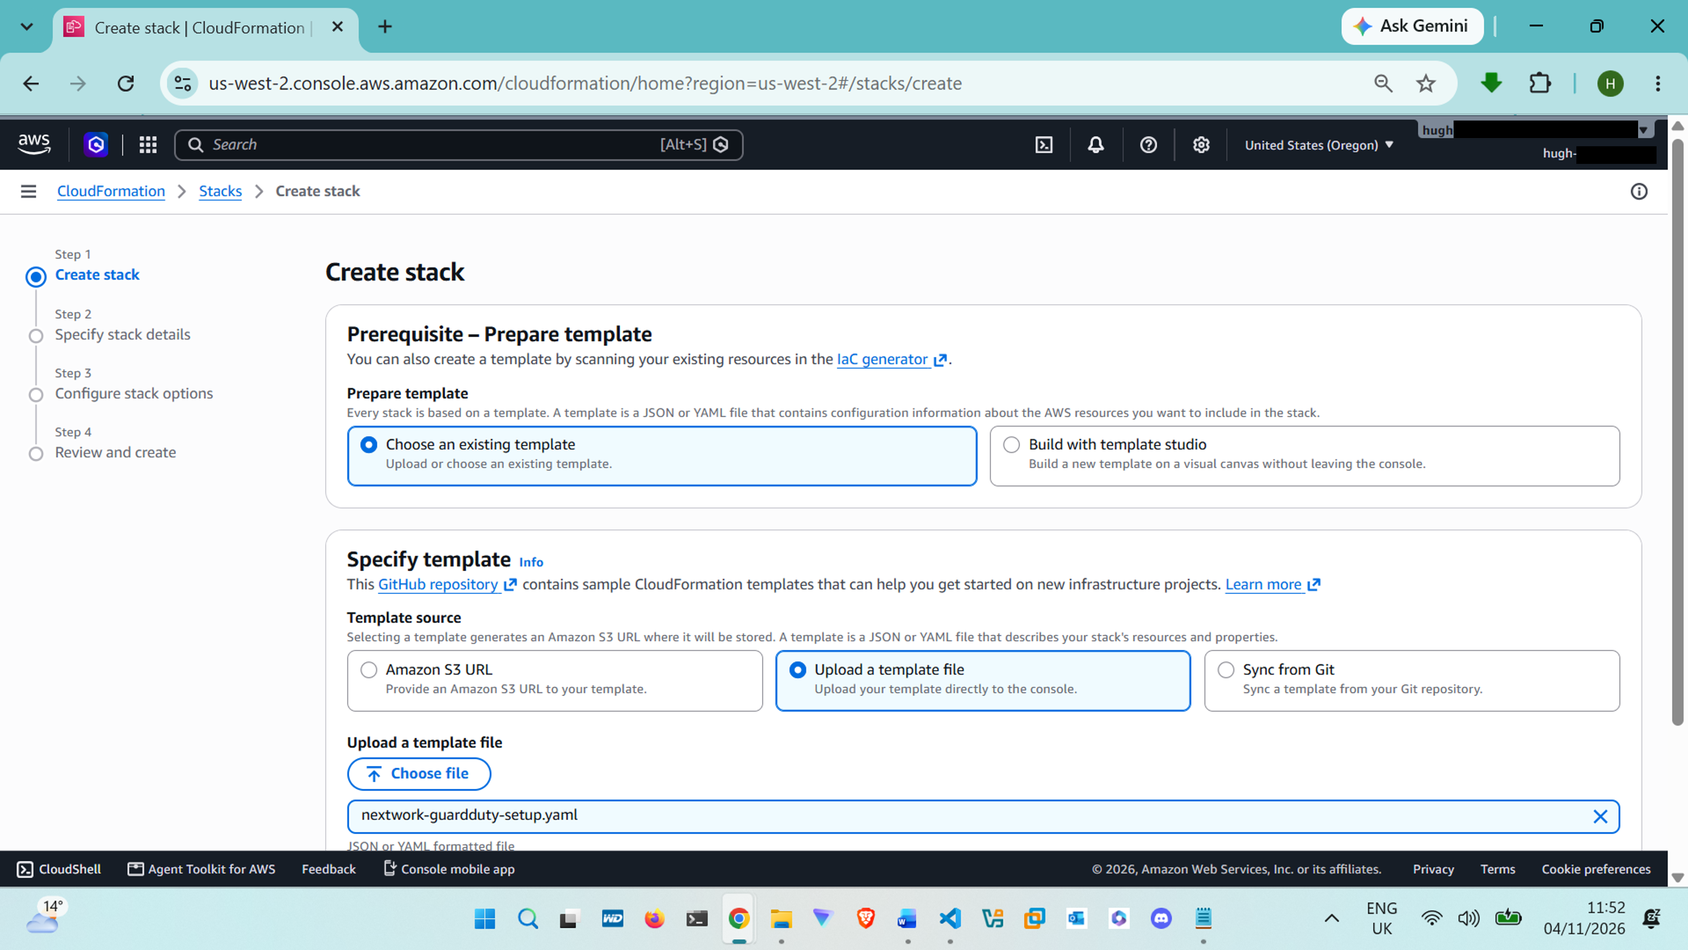
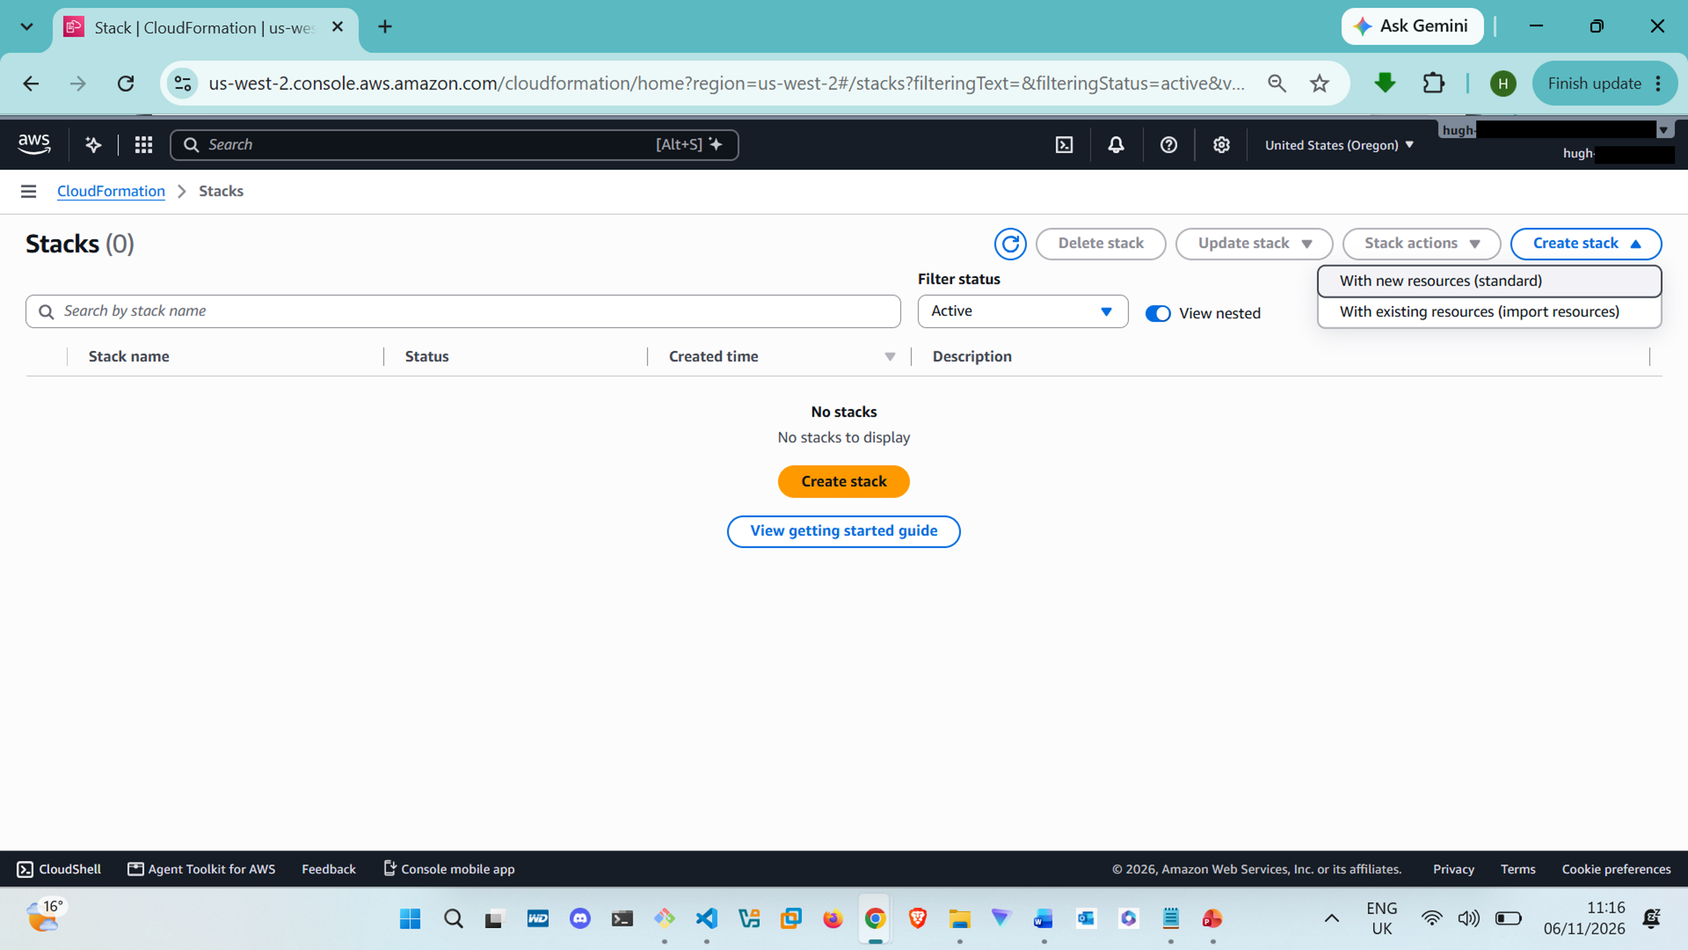
docs: add lab 02 GuardDuty threat detection walkthrough with 31 validation screenshots

diff --git a/02-guardduty-threat-detection/docs/evidence.md b/02-guardduty-threat-detection/docs/evidence.md
@@ -1,67 +1,62 @@
 # Evidence Index
 
-What each screenshot in [`../screenshots/`](../screenshots) proves. Filenames below are what the README and incident report link to — rename your files to match, or do a find-and-replace across all three files if you'd rather keep your own names.
-
-If you don't have a screenshot for a row, delete the row (and remove the matching placeholder from the README/incident report) rather than leaving a broken image link.
-
 ## CloudFormation deployment
 
 | # | Screenshot | What it proves |
-|---|---|---|
-| 1 | `01-stack-create-start.png` | Starting a new stack with "With new resources (standard)" |
-| 2 | `02-template-upload.png` | The `nextwork-guardduty-setup.yaml` template uploaded |
-| 3 | `03-stack-name-details.png` | Stack named, template details confirmed |
-| 4 | `04-stack-failure-options.png` | Stack failure options configured (rollback behavior) |
-| 5 | `05-stack-review-iam-ack.png` | Review page, IAM resource acknowledgement checked |
-| 6 | `06-stack-rollback-complete-error.png` | **Troubleshooting:** first deployment in `ROLLBACK_COMPLETE`, proving the region-mapping and stuck-bucket issues really happened |
-| 7 | `07-asg-activity-tab-error.png` | **Troubleshooting:** Auto Scaling Group Activity tab showing the real signal-timeout error, found after disabling rollback |
-| 8 | `08-stack-delete-retain-bucket.png` | **Troubleshooting:** deleting the failed stack with `TheSecureBucket` set to Retain |
-| 9 | `09-stack-create-complete.png` | Final successful deployment, status `CREATE_COMPLETE` |
-| 10 | `10-outputs-tab.png` | Outputs tab showing `JuiceShopURL`, `TheSecureBucket`, and other output values used throughout the attack |
+|---|------------|----------------|
+| 1 | [`01-stack-create-start.png`](../screenshots/01-stack-create-start.png) | Starting a new stack with "With new resources (standard)" |
+| 2 | [`02-template-upload.png`](../screenshots/02-template-upload.png) | The `nextwork-guardduty-setup.yaml` template uploaded |
+| 3 | [`03-stack-name-details.png`](../screenshots/03-stack-name-details.png) | Stack named, template details confirmed |
+| 4 | [`04-stack-failure-options.png`](../screenshots/04-stack-failure-options.png) | Stack failure options configured (rollback behavior) |
+| 5 | [`05-stack-review-iam-ack.png`](../screenshots/05-stack-review-iam-ack.png) | Review page, IAM resource acknowledgement checked |
+| 6 | [`06-osaka-region-mapping-error.png`](../screenshots/06-osaka-region-mapping-error.png) | **Troubleshooting:** Osaka deployment failing at template validation with the CloudFront prefix list mapping error, before any resources were created |
+| 7 | [`07-stack-rollback-failed-error.png`](../screenshots/07-stack-rollback-failed-error.png) | **Troubleshooting:** Oregon deployment stuck in `ROLLBACK_FAILED` after the Auto Scaling Group signal timeout |
+| 8 | [`08-stack-delete-retain-bucket.png`](../screenshots/08-stack-delete-retain-bucket.png) | **Troubleshooting:** deleting the failed stack with `TheSecureBucket` set to Retain |
+| 9 | [`09-stack-create-complete.png`](../screenshots/09-stack-create-complete.png) | Final successful deployment in Oregon, status `CREATE_COMPLETE` |
+| 10 | [`10-outputs-tab.png`](../screenshots/10-outputs-tab.png) | Outputs tab showing `JuiceShopURL`, `TheSecureBucket`, and other output values used throughout the attack |
 
 ## Accessing the app and the attack
 
 | # | Screenshot | What it proves |
-|---|---|---|
-| 11 | `11-juiceshop-landing-page.png` | Juice Shop reachable at the CloudFront URL |
-| 12 | `12-sql-injection-login-field.png` | `' or 1=1;--` entered in the login email field, before submitting |
-| 13 | `13-sql-injection-success-banner.png` | "Successfully solved a challenge: Login Admin" banner — authentication bypass confirmed |
-| 14 | `14-admin-profile-page.png` | Admin profile page reached after the bypass |
-| 15 | `15-command-injection-payload.png` | JavaScript payload pasted into the Username field |
-| 16 | `16-command-injection-object-object.png` | Username now reads `[object Object]`, confirming the payload executed |
-| 17 | `17-stolen-credentials-json.png` | Browser showing the exposed `credentials.json` contents (temporary credentials, safe since expired and deleted) |
+|---|------------|----------------|
+| 11 | [`11-juiceshop-landing-page.png`](../screenshots/11-juiceshop-landing-page.png) | Juice Shop reachable at the CloudFront URL |
+| 12 | [`12-sql-injection-login-field.png`](../screenshots/12-sql-injection-login-field.png) | `' or 1=1;--` entered in the login email field, before submitting |
+| 13 | [`13-sql-injection-success-banner.png`](../screenshots/13-sql-injection-success-banner.png) | "Successfully solved a challenge: Login Admin" banner — authentication bypass confirmed |
+| 14 | [`14-admin-profile-page.png`](../screenshots/14-admin-profile-page.png) | Admin profile page reached after the bypass |
+| 15 | [`15-command-injection-object-object.png`](../screenshots/15-command-injection-object-object.png) | Username now reads `[object Object]`, confirming the payload executed |
+| 16 | [`16-stolen-credentials-json.png`](../screenshots/16-stolen-credentials-json.png) | Browser showing the exposed `credentials.json` contents (temporary credentials, safe since expired and deleted) |
 
 ## CloudShell exfiltration
 
 | # | Screenshot | What it proves |
-|---|---|---|
-| 18 | `18-cloudshell-first-open.png` | CloudShell terminal opened and ready |
-| 19 | `19-cloudshell-env-vars.png` | `JUICESHOPURL` and `JUICESHOPS3BUCKET` environment variables set |
-| 20 | `20-cloudshell-wget-credentials.png` | `wget` downloading `credentials.json` into CloudShell |
-| 21 | `21-cloudshell-cat-jq-credentials.png` | `cat credentials.json \| jq` output, formatted credentials |
-| 22 | `22-cloudshell-aws-configure-profile.png` | `aws configure set profile.stolen...` commands building the CLI profile |
-| 23 | `23-cloudshell-s3-cp-secret-file.png` | `aws s3 cp ... --profile stolen` copying the secret file using stolen credentials |
-| 24 | `24-cloudshell-secret-file-contents.png` | `cat secret-information.txt` showing the leaked message — data theft confirmed |
+|---|------------|----------------|
+| 17 | [`17-cloudshell-first-open.png`](../screenshots/17-cloudshell-first-open.png) | CloudShell terminal opened and ready |
+| 18 | [`18-cloudshell-env-vars.png`](../screenshots/18-cloudshell-env-vars.png) | `JUICESHOPURL` and `JUICESHOPS3BUCKET` environment variables set |
+| 19 | [`19-cloudshell-wget-credentials.png`](../screenshots/19-cloudshell-wget-credentials.png) | `wget` downloading `credentials.json` into CloudShell |
+| 20 | [`20-cloudshell-cat-jq-credentials.png`](../screenshots/20-cloudshell-cat-jq-credentials.png) | `cat credentials.json \| jq` output, formatted credentials |
+| 21 | [`21-cloudshell-aws-configure-profile.png`](../screenshots/21-cloudshell-aws-configure-profile.png) | `aws configure set profile.stolen...` commands building the CLI profile |
+| 22 | [`22-cloudshell-s3-cp-secret-file.png`](../screenshots/22-cloudshell-s3-cp-secret-file.png) | `aws s3 cp ... --profile stolen` copying the secret file using stolen credentials |
+| 23 | [`23-cloudshell-secret-file-contents.png`](../screenshots/23-cloudshell-secret-file-contents.png) | `cat secret-information.txt` showing the leaked message — data theft confirmed |
 
 ## GuardDuty detection
 
 | # | Screenshot | What it proves |
-|---|---|---|
-| 25 | `25-guardduty-findings-list.png` | GuardDuty findings list, showing the High-severity finding |
-| 26 | `26-guardduty-finding-detail.png` | Finding detail page: `UnauthorizedAccess:IAMUser/InstanceCredentialExfiltration.InsideAWS`, resource, action, and actor fields |
+|---|------------|----------------|
+| 24 | [`24-guardduty-findings-list.png`](../screenshots/24-guardduty-findings-list.png) | GuardDuty findings list, showing the High-severity finding |
+| 25 | [`25-guardduty-finding-detail.png`](../screenshots/25-guardduty-finding-detail.png) | Finding detail page: `UnauthorizedAccess:IAMUser/InstanceCredentialExfiltration.InsideAWS`, resource, action, and actor fields |
 
 ## Malware Protection extension
 
 | # | Screenshot | What it proves |
-|---|---|---|
-| 27 | `27-malware-protection-enabled.png` | "Successfully enabled Malware Protection for S3" banner |
-| 28 | `28-eicar-file-upload.png` | EICAR test file uploaded to the bucket |
-| 29 | `29-eicar-finding.png` | Resulting `Object:S3/MaliciousFile` GuardDuty finding |
+|---|------------|----------------|
+| 26 | [`26-malware-protection-enabled.png`](../screenshots/26-malware-protection-enabled.png) | "Successfully enabled Malware Protection for S3" banner |
+| 27 | [`27-eicar-file-upload.png`](../screenshots/27-eicar-file-upload.png) | EICAR test file uploaded to the bucket |
+| 28 | [`28-eicar-finding.png`](../screenshots/28-eicar-finding.png) | Resulting `Object:S3/MaliciousFile` GuardDuty finding |
 
 ## Cleanup
 
 | # | Screenshot | What it proves |
-|---|---|---|
-| 30 | `30-cleanup-stack-delete.png` | CloudFormation stack deletion in progress/complete |
-| 31 | `31-cleanup-s3-template-bucket.png` | Auto-created `cf-templates-...` bucket emptied and deleted |
-| 32 | `32-cleanup-cloudshell-files-removed.png` | `ls` in CloudShell showing no files left (`credentials.json` and `secret-information.txt` removed) |
+|---|------------|----------------|
+| 29 | [`29-cleanup-stack-delete.png`](../screenshots/29-cleanup-stack-delete.png) | CloudFormation stack deletion in progress/complete |
+| 30 | [`30-cleanup-s3-template-bucket.png`](../screenshots/30-cleanup-s3-template-bucket.png) | Auto-created `cf-templates-...` bucket emptied and deleted |
+| 31 | [`31-cleanup-cloudshell-files-removed.png`](../screenshots/31-cleanup-cloudshell-files-removed.png) | `ls` in CloudShell showing no files left (`credentials.json` and `secret-information.txt` removed) |

diff --git a/02-guardduty-threat-detection/README.md b/02-guardduty-threat-detection/README.md
@@ -2,9 +2,9 @@
 
 > Played both attacker and defender against a deliberately vulnerable web app: chained an SQL injection, a command injection, and AWS credential theft into a real data breach, then verified that GuardDuty detected the intrusion and that S3 Malware Protection caught a planted test file.
 
-**Pathway:** NextWork, Cloud SecOps and Threat Monitoring | Weeks 2-3: Active Threat Monitoring
-**Time taken:** about 2 hours (plus troubleshooting time on deployment)
-**Region:** `us-west-2` (Oregon) — see [Deployment troubleshooting](#deployment-troubleshooting)
+**Pathway:** NextWork, Cloud SecOps and Threat Monitoring | Weeks 2-3: Active Threat Monitoring  
+**Time taken:** about 2 hours (plus troubleshooting time on deployment)  
+**Region:** `us-west-2` (Oregon) — see [Deployment troubleshooting](#deployment-troubleshooting)  
 **Billing:** Pay-as-you-go account, no free tier. All resources deleted after testing. GuardDuty and Malware Protection were only enabled for the duration of this lab.
 
 ---
@@ -57,6 +57,12 @@ flowchart TD
 | GuardDuty Malware Protection for S3 | Scans uploaded objects for malware                                     |
 | CloudShell                          | Used (as the attacker) to run AWS CLI commands with stolen credentials |
 
+![Osaka deployment template validation failure](screenshots/06-osaka-region-mapping-error.png)
+
+![Stack stuck in ROLLBACK_FAILED](screenshots/07-stack-rollback-failed-error.png)
+
+![Deleting the failed stack with the secure bucket set to Retain](screenshots/08-stack-delete-retain-bucket.png)
+
 ---
 
 ## Deployment troubleshooting
@@ -72,6 +78,20 @@ The CloudFormation deployment failed twice before succeeding, and diagnosing it 
 **What I changed for the next attempt:** under Stack failure options, I set *Rollback on failure* to **Deactivated** (while leaving *Delete newly created resources during a rollback* **Activated**). This step was essential because the default behavior deletes all evidence the moment something fails, which is exactly wrong for troubleshooting. If the Auto Scaling Group failed again, the stack would pause instead of tearing itself down, letting me check the Auto Scaling Group's **Activity** tab and the instance's system log for the real error.
 
 The stack deployed successfully on the retry in `us-west-2`.
+
+![Stack setup: new resources, standard](screenshots/01-stack-create-start.png)
+
+![Template uploaded](screenshots/02-template-upload.png)
+
+![Stack name and details](screenshots/03-stack-name-details.png)
+
+![Stack failure options configured](screenshots/04-stack-failure-options.png)
+
+![Review page with IAM acknowledgement checked](screenshots/05-stack-review-iam-ack.png)
+
+![Stack status CREATE_COMPLETE](screenshots/09-stack-create-complete.png)
+
+![Outputs tab with JuiceShopURL and TheSecureBucket](screenshots/10-outputs-tab.png)
 
 **Why this is worth documenting:** in a real environment, a stuck rollback caused by a resource an app has already written to is a common and confusing failure mode. Knowing to retain the specific resource, clean it up manually, and then disable rollback to capture root cause (instead of just retrying blindly) is a practical incident-response skill, not just a lab exercise.
 
@@ -91,6 +111,32 @@ The stack deployed successfully on the retry in `us-west-2`.
 | 8 | Configured a new AWS CLI profile, `stolen` | `aws configure set profile.stolen...` using the parsed values | Gave CloudShell the ability to act as the compromised EC2 instance |
 | 9 | Stole the data                             | `aws s3 cp s3://.../secret-information.txt . --profile stolen` | Copied the target's sensitive file using the stolen identity |
 | 10 | Confirmed the breach                      | `cat secret-information.txt` | Read the file's contents and found a confirmation string proving the data had leaked |
+
+![Juice Shop landing page](screenshots/11-juiceshop-landing-page.png)
+
+![SQL injection string entered in the login email field](screenshots/12-sql-injection-login-field.png)
+
+![Login Admin challenge solved banner](screenshots/13-sql-injection-success-banner.png)
+
+![Admin profile page](screenshots/14-admin-profile-page.png)
+
+![Username showing object Object after the payload ran](screenshots/15-command-injection-object-object.png)
+
+![Exposed credentials.json contents in the browser](screenshots/16-stolen-credentials-json.png)
+
+![CloudShell terminal opened](screenshots/17-cloudshell-first-open.png)
+
+![Environment variables set for the Juice Shop URL and S3 bucket](screenshots/18-cloudshell-env-vars.png)
+
+![wget downloading the stolen credentials.json](screenshots/19-cloudshell-wget-credentials.png)
+
+![Formatted credentials via cat and jq](screenshots/20-cloudshell-cat-jq-credentials.png)
+
+![AWS CLI profile 'stolen' configured from the credentials](screenshots/21-cloudshell-aws-configure-profile.png)
+
+![aws s3 cp copying the secret file with the stolen profile](screenshots/22-cloudshell-s3-cp-secret-file.png)
+
+![Contents of secret-information.txt, confirming the data leak](screenshots/23-cloudshell-secret-file-contents.png)
 
 **Why SQL injection and command injection are different:** SQL injection manipulates a database query (tricking the login check into returning true). Command injection gets the server to execute arbitrary operating-system-level commands. The first undermined authentication; the second gave direct code execution, which is what made stealing IAM credentials possible.
 
@@ -117,6 +163,10 @@ GuardDuty generated a finding within about 15 minutes of the CloudShell activity
 | Resource affected | The IAM role attached to the EC2 instance, used to access the S3 bucket |
 | Action            | `GetObject` on the secret file                                          |
 | Actor             | IP address and approximate location of the CloudShell session           |
+
+![GuardDuty findings list showing the High-severity finding](screenshots/24-guardduty-findings-list.png)
+
+![Finding detail page with resource, action, and actor](screenshots/25-guardduty-finding-detail.png)
 
 A full incident write-up, in SOC report format, is in [`docs/incident-report.md`](docs/incident-report.md).
 
@@ -150,6 +200,12 @@ To go beyond the core project, I enabled [Malware Protection for S3](https://doc
 | Uploaded `EICAR-test-file.txt`                                                            | Upload succeeded     |
 | Checked GuardDuty findings                                                                | New finding: **`Object:S3/MaliciousFile`**, correctly identified as the EICAR test signature, not a real virus |
 
+![Malware Protection for S3 enabled](screenshots/26-malware-protection-enabled.png)
+
+![EICAR test file uploaded](screenshots/27-eicar-file-upload.png)
+
+![Object:S3/MaliciousFile finding for the EICAR file](screenshots/28-eicar-finding.png)
+
 This confirms GuardDuty's S3 malware scanning works end to end. An upload triggers a scan, and a detected signature produces a finding, separate from the network/API-based findings covered earlier.
 
 ---
@@ -177,7 +233,16 @@ What this lab demonstrates about defending against this exact chain:
 - Emptied and deleted the auto-created `cf-templates-...` bucket and the stack's secure bucket
 - Removed `credentials.json` and `secret-information.txt` from CloudShell
 - Deleted the downloaded CloudFormation template and EICAR test file from local storage
-- Confirmed GuardDuty and Malware Protection stopped incurring charges once the stack was gone
+- Confirmed GuardDuty and Malware Protection stopped incurring charges once the stack was gone  
+
+![CloudFormation stack deletion](screenshots/29-cleanup-stack-delete.png)
+
+![Auto-created template bucket emptied and deleted](screenshots/30-cleanup-s3-template-bucket.png)
+
+![CloudShell with stolen credentials and secret file removed](screenshots/31-cleanup-cloudshell-files-removed.png)
+
+A full list of what each screenshot proves is in [`docs/evidence.md`](docs/evidence.md).
+
 
 ## Skills demonstrated
 

diff --git a/02-guardduty-threat-detection/docs/incident-report.md b/02-guardduty-threat-detection/docs/incident-report.md
@@ -1,8 +1,9 @@
 # Incident Report: Instance Credential Exfiltration and S3 Data Access
 
-**Classification:** Lab exercise (OWASP Juice Shop, self-contained CloudFormation deployment). No production systems or real customer data were involved.
-**Severity:** High
-**Status:** Resolved. Environment deleted after investigation
+**Classification:** Lab exercise (OWASP Juice Shop, self-contained CloudFormation deployment). No production systems or real customer data were involved.  
+**Severity:** High  
+**Status:** Resolved. Environment deleted after investigation   
+**Evidence:** screenshots referenced below are indexed in [`evidence.md`](evidence.md)  
 
 ---
 
@@ -12,17 +13,17 @@ An attacker (performed by me, as part of this lab) exploited an SQL injection to
 
 ## 2. Timeline
 
-| Time (relative) | Event |
-|-----------------|-------|
-| T+0       | Attacker submits `' or 1=1;--` as the email on the login form and logs in as admin without valid credentials                                           |
-| T+2 min   | Attacker injects a JavaScript payload into the Username field                                                                                          |
-| T+2 min   | Web server executes the payload (command injection), queries the EC2 instance metadata service, and writes IAM credentials to a public path in the app |
-| T+3 min   | Attacker retrieves `credentials.json` directly over HTTP                                                                                               |
-| T+5 min   | Attacker opens AWS CloudShell, configures a CLI profile (`stolen`) using the retrieved credentials                                                     |
-| T+6 min   | Attacker runs `aws s3 cp` to copy `secret-information.txt` from the target S3 bucket                                                                   |
-| T+6 min   | Attacker reads the file, confirming data exposure                                                                                                      |
-| T+~20 min | GuardDuty generates finding `UnauthorizedAccess:IAMUser/InstanceCredentialExfiltration.InsideAWS` (High severity)                                      |
-| T+21 min  | Defender (me) reviews the finding in the GuardDuty console                                                                                             |
+| Time (relative) | Event | Evidence |
+|-----------------|-------|----------|
+| T+0       | Attacker submits `' or 1=1;--` as the email on the login form and logs in as admin without valid credentials                                           | [`12-sql-injection-login-field.png`](../screenshots/12-sql-injection-login-field.png), [`13-sql-injection-success-banner.png`](../screenshots/13-sql-injection-success-banner.png) |
+| T+2 min   | Attacker accesses admin profile page to inject a JavaScript payload into the Username field                                                            | [`14-admin-profile-page.png`](../screenshots/14-admin-profile-page.png) |
+| T+2 min   | Web server executes the payload (command injection), queries the EC2 instance metadata service, and writes IAM credentials to a public path in the app | [`15-command-injection-object-object.png`](../screenshots/15-command-injection-object-object.png) |
+| T+3 min   | Attacker retrieves `credentials.json` directly over HTTP                                                                                               | [`16-stolen-credentials-json.png`](../screenshots/16-stolen-credentials-json.png) |
+| T+5 min   | Attacker opens AWS CloudShell, configures a CLI profile (`stolen`) using the retrieved credentials                                                     | [`17-cloudshell-first-open.png`](../screenshots/17-cloudshell-first-open.png), [`18-cloudshell-env-vars.png`](../screenshots/18-cloudshell-env-vars.png), [`19-cloudshell-wget-credentials.png`](../screenshots/19-cloudshell-wget-credentials.png), [`20-cloudshell-cat-jq-credentials.png`](../screenshots/20-cloudshell-cat-jq-credentials.png), [`21-cloudshell-aws-configure-profile.png`](../screenshots/21-cloudshell-aws-configure-profile.png) |
+| T+6 min   | Attacker runs `aws s3 cp` to copy `secret-information.txt` from the target S3 bucket                                                                   | [`22-cloudshell-s3-cp-secret-file.png`](../screenshots/22-cloudshell-s3-cp-secret-file.png) |
+| T+6 min   | Attacker reads the file, confirming data exposure                                                                                                      | [`23-cloudshell-secret-file-contents.png`](../screenshots/23-cloudshell-secret-file-contents.png) |
+| T+~20 min | GuardDuty generates finding `UnauthorizedAccess:IAMUser/InstanceCredentialExfiltration.InsideAWS` (High severity)                                      | [`24-guardduty-findings-list.png`](../screenshots/24-guardduty-findings-list.png) |
+| T+21 min  | Defender (me) reviews the finding in the GuardDuty console                                                                                             | [`25-guardduty-finding-detail.png`](../screenshots/25-guardduty-finding-detail.png) |
 
 ## 3. Root cause
 
@@ -55,7 +56,14 @@ GuardDuty's anomaly detection identified that credentials issued to an EC2 insta
 1. Confirmed the finding details and the affected resource in the GuardDuty console
 2. Treated the exposed credentials as compromised (they were temporary and tied to a lab resource that was deleted)
 3. Deleted the CloudFormation stack, which removed the EC2 instance, its IAM role, the S3 bucket, and associated networking
-4. Removed locally cached copies of the stolen credentials and the exfiltrated file from CloudShell and local storage
+
+![CloudFormation stack deletion](../screenshots/29-cleanup-stack-delete.png)
+
+![Auto-created template bucket emptied and deleted](../screenshots/30-cleanup-s3-template-bucket.png)
+
+4. Removed locally cached copies of the stolen credentials and the exfiltrated file from CloudShell and local storage 
+
+![CloudShell with stolen credentials and secret file removed](../screenshots/31-cleanup-cloudshell-files-removed.png)
 
 ## 7. Recommendations
 
